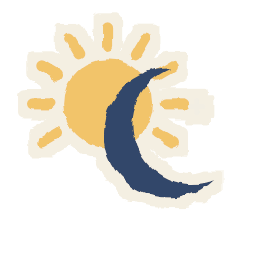
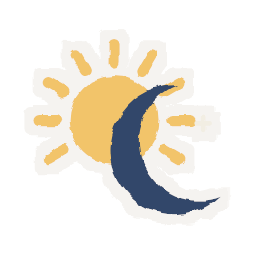
feat: replace package manager installation tabs with InstallCommand component for streamlined documentation; refactor global styles and enhance button transitions

Changed region(s): [[0.0625, 0.0312, 0.875, 0.8438]]

diff --git a/apps/docs/src/app/(home)/hero-content.tsx b/apps/docs/src/app/(home)/hero-content.tsx
@@ -1,123 +1,17 @@
 "use client";
 
-import { Copy01Icon, GithubIcon, StarIcon, Tick02Icon } from "@hugeicons/core-free-icons";
+import { GithubIcon, StarIcon } from "@hugeicons/core-free-icons";
 import { HugeiconsIcon } from "@hugeicons/react";
 import { useReducedMotion } from "motion/react";
 import * as m from "motion/react-m";
 import Image from "next/image";
 import Link from "next/link";
-import { useState } from "react";
-import { cn } from "@/lib/cn";
 import sticker from "@/assets/home/sticker.png";
+import { InstallCommand } from "@/components/install-command";
 import { formatStars, gitConfig } from "@/lib/layout.shared";
 import { HeroSky } from "./hero-sky";
 
 const EASE_OUT = [0.23, 1, 0.32, 1] as const;
-
-const PKG_MANAGERS = [
-	{ label: "bun", command: "bun add @wrksz/themes" },
-	{ label: "npm", command: "npm install @wrksz/themes" },
-	{ label: "pnpm", command: "pnpm add @wrksz/themes" },
-	{ label: "yarn", command: "yarn add @wrksz/themes" },
-] as const;
-
-type PkgManager = (typeof PKG_MANAGERS)[number]["label"];
-
-function InstallSnippet() {
-	const [pm, setPm] = useState<PkgManager>("pnpm");
-	const [copied, setCopied] = useState(false);
-	const command = PKG_MANAGERS.find((m) => m.label === pm)?.command ?? "";
-
-	async function copy() {
-		try {
-			await navigator.clipboard.writeText(command);
-			setCopied(true);
-			setTimeout(() => setCopied(false), 2000);
-		} catch {}
-	}
-
-	const active = PKG_MANAGERS.findIndex((mgr) => mgr.label === pm);
-
-	return (
-		<div className="flex w-lg max-w-full flex-col gap-1 rounded-xl bg-fd-card p-1.5 sm:flex-row sm:items-center">
-			<fieldset
-				aria-label="Package manager"
-				className="relative grid h-8 min-w-0 shrink-0 grid-cols-4 sm:w-48"
-			>
-				<span
-					aria-hidden
-					className="absolute inset-y-0 left-0 w-1/4 rounded-md bg-fd-background shadow-[0_1px_2px_rgb(0_0_0/0.08)] transition-transform duration-200 ease-out motion-reduce:transition-none dark:bg-fd-secondary"
-					style={{ transform: `translateX(${active * 100}%)` }}
-				/>
-				{PKG_MANAGERS.map((mgr) => (
-					<button
-						key={mgr.label}
-						type="button"
-						aria-pressed={pm === mgr.label}
-						onClick={() => setPm(mgr.label)}
-						className={cn(
-							"relative cursor-pointer rounded-md text-xs font-medium outline-none transition-[color,transform] duration-150 focus-visible:ring-2 focus-visible:ring-fd-ring active:scale-[0.96]",
-							pm === mgr.label
-								? "text-fd-foreground"
-								: "text-fd-muted-foreground hover:text-fd-foreground",
-						)}
-					>
-						{mgr.label}
-					</button>
-				))}
-			</fieldset>
-			<div className="flex h-8 min-w-0 flex-1 items-center gap-2 pl-2.5 sm:pl-3">
-				<span className="select-none font-mono text-[13px] text-fd-muted-foreground">
-					$
-				</span>
-				<code className="flex-1 truncate text-left font-mono text-[13px] text-fd-foreground">
-					{command}
-				</code>
-				<button
-					type="button"
-					onClick={copy}
-					aria-label={copied ? "Copied" : "Copy command"}
-					className="relative flex size-8 shrink-0 cursor-pointer items-center justify-center rounded-md text-fd-muted-foreground outline-none transition-[color,background-color,transform] duration-150 hover:bg-fd-accent hover:text-fd-foreground focus-visible:ring-2 focus-visible:ring-fd-ring active:scale-[0.96]"
-				>
-					<span
-						aria-hidden
-						className="absolute inset-0 flex items-center justify-center transition-[opacity,transform,filter] duration-150"
-						style={{
-							opacity: copied ? 0 : 1,
-							transform: copied ? "scale(0.6)" : "scale(1)",
-							filter: copied ? "blur(4px)" : "blur(0px)",
-							transitionTimingFunction: "cubic-bezier(0.23,1,0.32,1)",
-						}}
-					>
-						<HugeiconsIcon
-							icon={Copy01Icon}
-							size={14}
-							color="currentColor"
-							strokeWidth={1.5}
-						/>
-					</span>
-					<span
-						aria-hidden
-						className="absolute inset-0 flex items-center justify-center text-emerald-500 transition-[opacity,transform,filter] duration-150"
-						style={{
-							opacity: copied ? 1 : 0,
-							transform: copied ? "scale(1)" : "scale(0.6)",
-							filter: copied ? "blur(0px)" : "blur(4px)",
-							transitionTimingFunction: "cubic-bezier(0.23,1,0.32,1)",
-						}}
-					>
-						<HugeiconsIcon
-							icon={Tick02Icon}
-							size={14}
-							color="currentColor"
-							strokeWidth={2}
-						/>
-					</span>
-				</button>
-			</div>
-		</div>
-	);
-}
 
 export function HeroContent({ stars }: { stars: number | null }) {
 	const reduceMotion = useReducedMotion();
@@ -161,7 +55,7 @@ export function HeroContent({ stars }: { stars: number | null }) {
 				<div className="relative mt-7 flex w-full max-w-64 flex-col items-stretch gap-3 sm:w-auto sm:max-w-none sm:flex-row sm:items-center">
 					<Link
 						href="/docs"
-						className="inline-flex items-center justify-center gap-2 rounded-lg bg-[#F4F2EC] px-5 py-2.5 text-sm font-semibold text-[#1B1A17] shadow-[0_1px_2px_rgb(26_23_16/0.2)] transition-[transform,opacity] duration-150 hover:opacity-90 active:scale-[0.97]"
+						className="inline-flex items-center justify-center gap-2 rounded-lg bg-[#F4F2EC] px-5 py-2.5 text-sm font-semibold text-[#1B1A17] shadow-[0_1px_2px_rgb(26_23_16/0.2)] transition-[scale,opacity] duration-150 hover:opacity-90 active:scale-[0.97]"
 					>
 						Get started
 					</Link>
@@ -169,7 +63,7 @@ export function HeroContent({ stars }: { stars: number | null }) {
 						href={`https://github.com/${gitConfig.user}/${gitConfig.repo}`}
 						target="_blank"
 						rel="noopener noreferrer"
-						className="inline-flex items-center justify-center gap-2 rounded-lg border border-white/35 bg-white/15 px-5 py-2.5 text-sm font-medium text-[#F4F2EC] backdrop-blur-md transition-[transform,background-color] duration-150 hover:bg-white/25 active:scale-[0.97]"
+						className="inline-flex items-center justify-center gap-2 rounded-lg border border-white/35 bg-white/15 px-5 py-2.5 text-sm font-medium text-[#F4F2EC] backdrop-blur-md transition-[scale,background-color] duration-150 hover:bg-white/25 active:scale-[0.97]"
 					>
 						<HugeiconsIcon
 							icon={GithubIcon}
@@ -196,7 +90,7 @@ export function HeroContent({ stars }: { stars: number | null }) {
 			</m.div>
 
 			<m.div className="mt-6 flex w-full justify-center" {...fadeUp(0.16)}>
-				<InstallSnippet />
+				<InstallCommand className="w-lg max-w-full" />
 			</m.div>
 		</>
 	);

diff --git a/apps/docs/src/components/install-command.tsx b/apps/docs/src/components/install-command.tsx
@@ -1,0 +1,65 @@
+"use client";
+
+import { useState } from "react";
+import { cn } from "@/lib/cn";
+import { CopyButton } from "./copy-button";
+
+const PKG_MANAGERS = [
+	{ label: "bun", command: "bun add @wrksz/themes" },
+	{ label: "npm", command: "npm install @wrksz/themes" },
+	{ label: "pnpm", command: "pnpm add @wrksz/themes" },
+	{ label: "yarn", command: "yarn add @wrksz/themes" },
+] as const;
+
+type PkgManager = (typeof PKG_MANAGERS)[number]["label"];
+
+export function InstallCommand({ className }: { className?: string }) {
+	const [pm, setPm] = useState<PkgManager>("pnpm");
+	const command = PKG_MANAGERS.find((mgr) => mgr.label === pm)?.command ?? "";
+	const active = PKG_MANAGERS.findIndex((mgr) => mgr.label === pm);
+
+	return (
+		<div
+			className={cn(
+				"not-prose flex flex-col gap-1 rounded-xl bg-fd-card p-1.5 sm:flex-row sm:items-center",
+				className,
+			)}
+		>
+			<fieldset
+				aria-label="Package manager"
+				className="relative grid h-8 min-w-0 shrink-0 grid-cols-4 sm:w-48"
+			>
+				<span
+					aria-hidden
+					className="absolute inset-y-0 left-0 w-1/4 rounded-md bg-fd-background shadow-[0_1px_2px_rgb(0_0_0/0.08)] transition-transform duration-200 ease-out motion-reduce:transition-none dark:bg-fd-secondary"
+					style={{ transform: `translateX(${active * 100}%)` }}
+				/>
+				{PKG_MANAGERS.map((mgr) => (
+					<button
+						key={mgr.label}
+						type="button"
+						aria-pressed={pm === mgr.label}
+						onClick={() => setPm(mgr.label)}
+						className={cn(
+							"relative cursor-pointer rounded-md text-xs font-medium outline-none transition-[color,scale] duration-150 focus-visible:ring-2 focus-visible:ring-fd-ring active:scale-[0.96]",
+							pm === mgr.label
+								? "text-fd-foreground"
+								: "text-fd-muted-foreground hover:text-fd-foreground",
+						)}
+					>
+						{mgr.label}
+					</button>
+				))}
+			</fieldset>
+			<div className="flex h-8 min-w-0 flex-1 items-center gap-2 pl-2.5 sm:pl-3">
+				<span className="select-none font-mono text-[13px] text-fd-muted-foreground">
+					$
+				</span>
+				<code className="flex-1 truncate text-left font-mono text-[13px] text-fd-foreground">
+					{command}
+				</code>
+				<CopyButton getValue={() => command} label="Copy command" />
+			</div>
+		</div>
+	);
+}

diff --git a/apps/docs/src/components/copy-button.tsx b/apps/docs/src/components/copy-button.tsx
@@ -1,0 +1,53 @@
+"use client";
+
+import { Copy01Icon, Tick02Icon } from "@hugeicons/core-free-icons";
+import { HugeiconsIcon } from "@hugeicons/react";
+import { useRef, useState } from "react";
+import { cn } from "@/lib/cn";
+
+const SWAP =
+	"absolute inset-0 flex items-center justify-center transition-[opacity,scale,filter] ease-[cubic-bezier(0.23,1,0.32,1)] motion-reduce:transition-opacity";
+const SHOWN = "scale-100 opacity-100 blur-0 duration-200";
+const HIDDEN =
+	"scale-50 opacity-0 blur-[4px] duration-[120ms] motion-reduce:scale-100 motion-reduce:blur-0";
+
+export function CopyButton({
+	getValue,
+	label = "Copy",
+	className,
+}: {
+	getValue: () => string;
+	label?: string;
+	className?: string;
+}) {
+	const [copied, setCopied] = useState(false);
+	const timer = useRef<ReturnType<typeof setTimeout>>(undefined);
+
+	async function copy() {
+		try {
+			await navigator.clipboard.writeText(getValue());
+			setCopied(true);
+			clearTimeout(timer.current);
+			timer.current = setTimeout(() => setCopied(false), 2000);
+		} catch {}
+	}
+
+	return (
+		<button
+			type="button"
+			onClick={copy}
+			aria-label={copied ? "Copied" : label}
+			className={cn(
+				"relative flex size-8 shrink-0 cursor-pointer items-center justify-center rounded-md text-fd-muted-foreground outline-none transition-[color,background-color,scale] duration-150 ease-out hover:bg-fd-accent hover:text-fd-foreground focus-visible:ring-2 focus-visible:ring-fd-ring active:scale-[0.96]",
+				className,
+			)}
+		>
+			<span aria-hidden className={cn(SWAP, copied ? HIDDEN : SHOWN)}>
+				<HugeiconsIcon icon={Copy01Icon} size={14} color="currentColor" strokeWidth={1.5} />
+			</span>
+			<span aria-hidden className={cn(SWAP, "text-emerald-500", copied ? SHOWN : HIDDEN)}>
+				<HugeiconsIcon icon={Tick02Icon} size={14} color="currentColor" strokeWidth={2} />
+			</span>
+		</button>
+	);
+}

diff --git a/apps/docs/src/components/button.tsx b/apps/docs/src/components/button.tsx
@@ -9,9 +9,9 @@ type ButtonProps = ComponentProps<typeof Link> & {
 
 const variants: Record<ButtonVariant, string> = {
 	primary:
-		"inline-flex items-center justify-center gap-2 rounded-lg bg-fd-primary px-5 py-2.5 text-sm font-semibold text-fd-primary-foreground transition-[transform,opacity] duration-150 hover:opacity-90 active:scale-[0.96]",
+		"inline-flex items-center justify-center gap-2 rounded-lg bg-fd-primary px-5 py-2.5 text-sm font-semibold text-fd-primary-foreground transition-[scale,opacity] duration-150 hover:opacity-90 active:scale-[0.96]",
 	secondary:
-		"inline-flex items-center justify-center gap-2 rounded-lg border border-fd-border bg-fd-card px-5 py-2.5 text-sm font-medium text-fd-foreground transition-[transform,background-color] duration-150 hover:bg-fd-accent active:scale-[0.96]",
+		"inline-flex items-center justify-center gap-2 rounded-lg border border-fd-border bg-fd-card px-5 py-2.5 text-sm font-medium text-fd-foreground transition-[scale,background-color] duration-150 hover:bg-fd-accent active:scale-[0.96]",
 };
 
 export function Button({ variant = "primary", className, ...props }: ButtonProps) {

diff --git a/apps/docs/src/components/mdx.tsx b/apps/docs/src/components/mdx.tsx
@@ -1,7 +1,11 @@
 import { Tab, Tabs } from "fumadocs-ui/components/tabs";
 import defaultMdxComponents from "fumadocs-ui/mdx";
 import type { MDXComponents } from "mdx/types";
+import type { ComponentProps } from "react";
+import { cn } from "@/lib/cn";
 import { Callout } from "./callout";
+import { CodeBlock } from "./code-block";
+import { InstallCommand } from "./install-command";
 import { Beta, Breaking, Bug, Fixed, No, Since, Yes } from "./mdx-badges";
 import { Do, Dont } from "./practice";
 import { ScrollFade } from "./scroll-fade";
@@ -10,6 +14,24 @@ export function getMDXComponents(components?: MDXComponents) {
 	return {
 		...defaultMdxComponents,
 		Callout,
+		InstallCommand,
+		pre: ({
+			ref: _ref,
+			title,
+			icon: _icon,
+			className,
+			...props
+		}: ComponentProps<"pre"> & { icon?: unknown }) => (
+			<CodeBlock title={title}>
+				<pre
+					className={cn(
+						className,
+						"w-max min-w-full py-3.5 text-[0.875rem] leading-relaxed outline-none *:flex *:flex-col",
+					)}
+					{...props}
+				/>
+			</CodeBlock>
+		),
 		Do,
 		Dont,
 		table: (props) => (

diff --git a/apps/docs/src/components/code-block.tsx b/apps/docs/src/components/code-block.tsx
@@ -1,0 +1,26 @@
+"use client";
+
+import { type ReactNode, useRef } from "react";
+import { CopyButton } from "./copy-button";
+
+export function CodeBlock({ title, children }: { title?: string; children: ReactNode }) {
+	const viewport = useRef<HTMLDivElement>(null);
+
+	return (
+		<figure className="not-prose relative my-6 rounded-xl bg-fd-card has-[pre:focus-visible]:ring-2 has-[pre:focus-visible]:ring-fd-ring">
+			{title ? (
+				<figcaption className="truncate px-4 pt-3 pr-12 font-mono text-xs text-fd-muted-foreground">
+					{title}
+				</figcaption>
+			) : null}
+			<div ref={viewport} className="overflow-x-auto outline-none">
+				{children}
+			</div>
+			<CopyButton
+				getValue={() => viewport.current?.querySelector("pre")?.textContent ?? ""}
+				label="Copy code"
+				className="absolute top-2 right-2"
+			/>
+		</figure>
+	);
+}

diff --git a/apps/docs/src/app/global.css b/apps/docs/src/app/global.css
@@ -75,25 +75,6 @@ samp,
 	--color-fd-overlay: oklch(0 0 0 / 60%);
 }
 
-figure.shiki:not(.not-fumadocs-codeblock *) {
-	border-color: transparent;
-	box-shadow: none;
-}
-
-figure.shiki pre {
-	font-size: 0.875rem;
-	line-height: 1.625;
-}
-
-.prose div[data-orientation]:has(> [role="tablist"]) {
-	border-color: transparent;
-	background-color: var(--color-fd-card);
-
-	& figure.shiki {
-		background-color: var(--color-fd-card);
-	}
-}
-
 .prose :where(code):not(:where(pre *, .not-prose *)) {
 	border: 0;
 	border-radius: 4px;

diff --git a/apps/docs/src/app/(home)/comparison.tsx b/apps/docs/src/app/(home)/comparison.tsx
@@ -161,7 +161,7 @@ export function Comparison() {
 											src={sticker}
 											alt=""
 											sizes="16px"
-											className="size-4 translate-y-0.5"
+											className="size-4"
 										/>
 										@wrksz/themes
 									</span>
